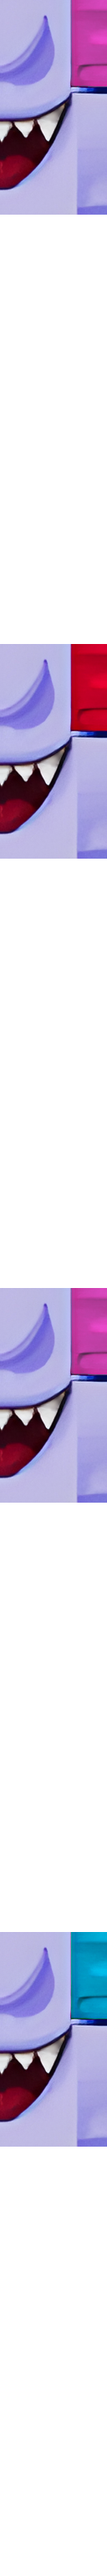
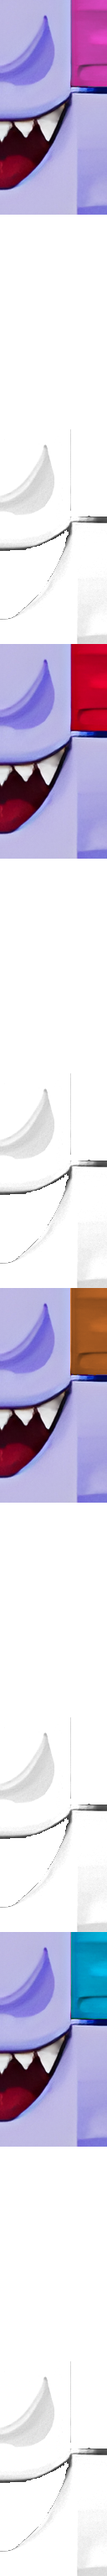
more player colors (part 1)

diff --git a/Assets/Scripts/UI/Menu/MainMenuManager.cs b/Assets/Scripts/UI/Menu/MainMenuManager.cs
@@ -1603,9 +1603,16 @@ public class MainMenuManager : MonoBehaviour, ILobbyCallbacks, IInRoomCallbacks,
         colorManager.ChangeCharacter(data);
 
         Utils.GetCustomProperty(Enums.NetPlayerProperties.PlayerColor, out int index, PhotonNetwork.LocalPlayer.CustomProperties);
-        if (index < Utils.GetColorCountForPlayer(data)) return;
-        SetPlayerColor(0);
-        colorManager.selected = 0;
+        if (index > Utils.GetColorCountForPlayer(data))
+        {
+            SetPlayerColor(0);
+            colorManager.selected = 0;
+            return;
+        }
+        PlayerColors colors = index == 0 ? new PlayerColors() : GlobalController.Instance.skins[index].GetPlayerColors(data);
+        paletteDisabled.SetActive(index == 0);
+        overallColor.color = colors.hatColor;
+        shirtColor.color = colors.overallsColor;
     }
 
     public void SwapCharacter(TMP_Dropdown dropdown) {
@@ -1620,8 +1627,8 @@ public class MainMenuManager : MonoBehaviour, ILobbyCallbacks, IInRoomCallbacks,
             ? new PlayerColors()
             : GlobalController.Instance.skins[index].GetPlayerColors(Utils.GetCharacterData());
         paletteDisabled.SetActive(index == 0);
-        overallColor.color = colors.overallsColor;
-        shirtColor.color = colors.hatColor;
+        overallColor.color = colors.hatColor;
+        shirtColor.color = colors.overallsColor;
         PhotonNetwork.LocalPlayer.SetCustomProperties(prop);
 
         Settings.Instance.skin = index;

diff --git a/Assets/Scripts/UI/Menu/ColorChooser.cs b/Assets/Scripts/UI/Menu/ColorChooser.cs
@@ -83,7 +83,10 @@ public class ColorChooser : MonoBehaviour, KeepChildInFocus.IFocusIgnore {
             cb.Instantiate(color);
             Button b = newButton.GetComponent<Button>();
             if (color == null)
+            {
+                cb.OnDeselect(null);
                 b.image.sprite = clearSprite;
+            }
             newButton.SetActive(true);
             buttons.Add(b);
         }

diff --git a/Assets/Scripts/UI/Menu/ColorButton.cs b/Assets/Scripts/UI/Menu/ColorButton.cs
@@ -16,8 +16,8 @@ public class ColorButton : MonoBehaviour, ISelectHandler, IDeselectHandler {
             return;
         }
 
-        shirt.color = col.hatColor;
-        overalls.color = col.overallsColor;
+        shirt.color = col.overallsColor;
+        overalls.color = col.hatColor;
         overlay.enabled = false;
     }
 
